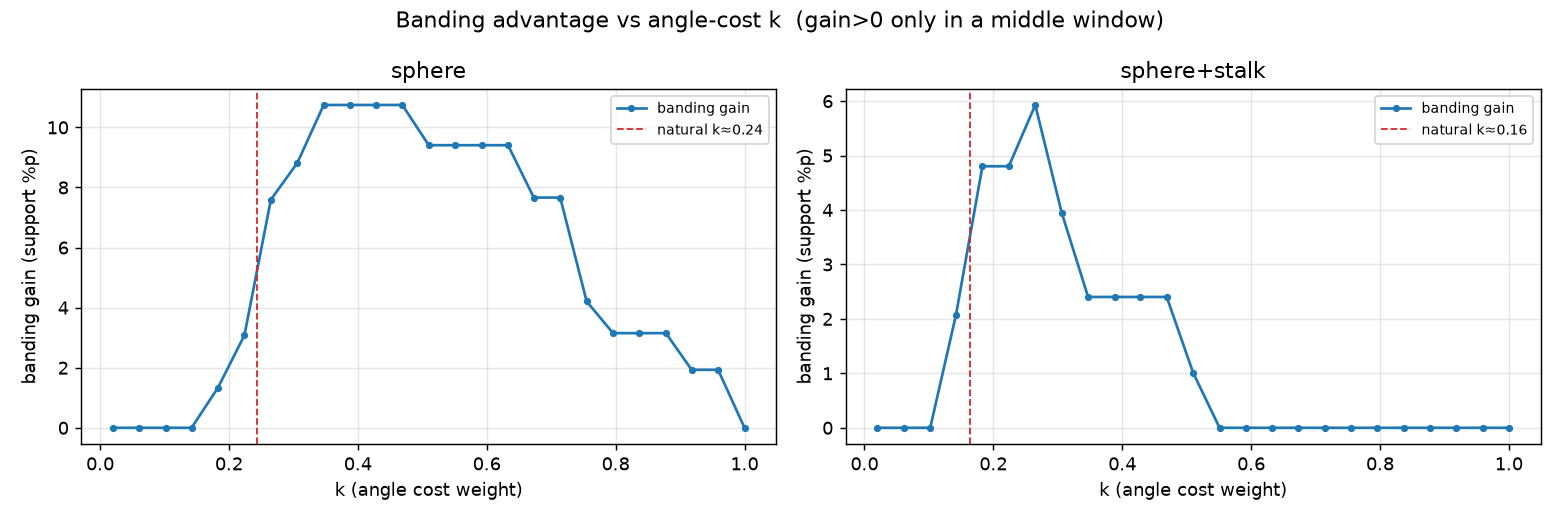
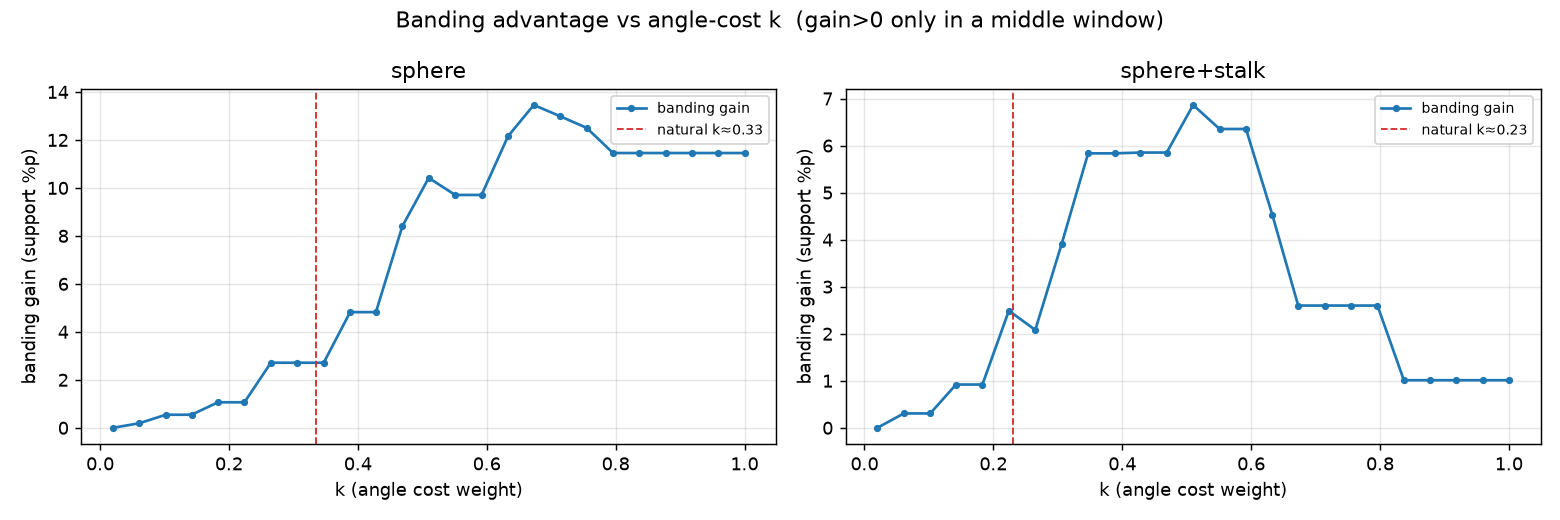
판정 기준 통일: Stage 3 계열(J/k/복잡도 비교)을 해석식으로 이식
리포에 오버행 판정 기준이 2개 공존했다 — 변환공간 근사(sweep/metrics:
selector·varangle·regions·compare_complexity·analyze_k가 사용)와
해석식(analytic: clusters·bandplan·compare_ceiling·conical_slice가 사용).
두 기준은 0°에서만 일치하고 각도가 클수록 벌어진다(구 44°에서 5.8% vs
0.0%). 리포 스스로 docs/warped_threshold_finding.md 에서 "변환공간 45°
판정은 물리와 다르다"고 밝혔으므로 간판 숫자를 전부 해석식으로 통일.

변경: analytic.face_support_and_staircase 추가(α=0에서 기존 정의와 정확
일치), selector/varangle/regions/analyze_k 를 analytic 으로 교체,
sweep/metrics 는 "⚠ 레거시" 표시(비교·재현용 유지), 결과물 재생성.

대표 수치 변화 (구 icosphere subdiv4, 임계 45°, k=0.2):
  cone_selector 선택   : outward 36°, 서포트 7.2%, J 0.32
                       → outward 32°, 서포트 1.3%, J 7.06
  compare_complexity   : 균일 5.3% / 밴드2 4.0 / 밴드3 4.0 / 세밀 4.0
                       → 균일 1.3% / 밴드2 0.5 / 밴드3 0.2 / 세밀 0.0
  analyze_k (sphere)   : 자연 k 0.24, 피크 +10.7%p@0.35
                       → 자연 k 0.33, 피크 +13.5%p@0.67
  analyze_k (s+stalk)  : 자연 k 0.16, 피크 +5.9%p@0.27
                       → 자연 k 0.23, 피크 +6.9%p@0.51
  compare_ceiling      : 변화 없음 (이미 해석식)
해석식 검증치: 0°=14.71 / 20°=4.68 / 36°=0.54 / 44°=0.00 (기대와 일치).
새 곡선에서 32°가 J 최대임을 확인.

Claude-Session: https://claude.ai/code/session_01PhcSjij4HCWYMgSyMokAq5

diff --git a/conical/regions.py b/conical/regions.py
@@ -17,9 +17,7 @@ regions.py — 부위별(영역별) 원뿔 각도 결정 (Stage 4, 확장).
 """
 
 import numpy as np
-import trimesh
 
-from .transform import transform_cone
 from .overhang import analyze_overhangs
 from .selector import evaluate_J
 from .config import THRESHOLD_DEG, MAX_ANGLE_DEG, ANGLE_STEP
@@ -57,14 +55,13 @@ def assign_regions_by_overhang(mesh, n_regions, threshold_deg=THRESHOLD_DEG):
 # 2) 서포트 판정 도우미: 변환 후에도 서포트가 필요한 면들
 # ─────────────────────────────────────────────────────────────
 def still_needs_support(mesh, cone_angle_deg, cone_type, threshold_deg=THRESHOLD_DEG):
-    """변환 후에도 서포트가 필요한 면들의 boolean 배열(전체 면 기준)을 돌려준다."""
-    if cone_angle_deg == 0:
-        tmesh = mesh
-    else:
-        v = transform_cone(mesh.vertices, cone_angle_deg, cone_type)
-        tmesh = trimesh.Trimesh(vertices=v, faces=mesh.faces, process=False)
-    _, need = analyze_overhangs(tmesh, threshold_deg)
-    return need
+    """이 각도에서도 서포트가 필요한 면들의 boolean 배열(전체 면 기준).
+
+    판정 기준 통일(2026-07 리뷰): 변환공간 근사(메시 재변환+법선 재계산) 대신
+    해석식(실공간 국소 레이어 각)을 쓴다. α=0 에서 두 정의는 일치.
+    """
+    from . import analytic
+    return analytic.needs_support(mesh, cone_angle_deg, cone_type, threshold_deg)
 
 
 # ─────────────────────────────────────────────────────────────

diff --git a/conical/analytic.py b/conical/analytic.py
@@ -60,6 +60,20 @@ def support_fraction(mesh, angle_deg, direction, threshold_deg=THRESHOLD_DEG):
     return areas[need].sum() / areas.sum() * 100.0
 
 
+def face_support_and_staircase(mesh, angle_deg, direction,
+                               threshold_deg=THRESHOLD_DEG):
+    """해석식 버전 (metrics.face_support_and_staircase 의 대체):
+      needs_support = g < κ,  staircase = max(0, −g).
+
+    g = n_z·cosα + d·n_r·sinα 는 변환공간 n_z' 의 실공간 대응물이므로
+    α=0 에서 기존 metrics 정의와 정확히 일치하고, α>0 에서는 왜곡 없는
+    물리 기준이 된다 (docs/warped_threshold_finding.md — 판정 기준 통일).
+    """
+    g = overhang_score(mesh, angle_deg, direction)
+    kappa = -np.sin(np.radians(threshold_deg))
+    return g < kappa, np.maximum(0.0, -g)
+
+
 def critical_angle(mesh, direction, threshold_deg=THRESHOLD_DEG,
                    angle_max=MAX_ANGLE_DEG):
     """면마다 '자기지지가 되는 최소 원뿔각 θ*'를 닫힌형으로 계산.

diff --git a/conical/varangle.py b/conical/varangle.py
@@ -20,7 +20,9 @@ varangle.py — 높이 구간별 '변수각 원뿔' 전략 (부위별 각도의 
 import numpy as np
 
 from .config import THRESHOLD_DEG, MAX_ANGLE_DEG, ANGLE_STEP
-from .metrics import face_support_and_staircase
+# 판정 기준 통일(2026-07 리뷰): metrics(변환공간 근사) → analytic(해석식).
+# α=0 에서 두 정의는 일치, α>0 에서 해석식이 물리 기준이다.
+from .analytic import face_support_and_staircase
 
 
 # ─────────────────────────────────────────────────────────────

diff --git a/conical/metrics.py b/conical/metrics.py
@@ -1,5 +1,8 @@
 """
-metrics.py — 원뿔 각도 성능을 재는 '지표' 모음. 한 곳에서 재사용.
+metrics.py — 원뿔 각도 성능을 재는 '지표' 모음.
+
+⚠ 레거시: 변환공간 근사. 판정 기준은 analytic 으로 통일됨(비교·재현용으로만 유지).
+   analytic.face_support_and_staircase 가 같은 시그니처의 물리 기준 대체다.
 
 세 가지 관점 (발표의 '복잡도 vs 성능' 표에 그대로 들어감):
   1) 서포트   : 변환 후에도 서포트가 필요한 면 (적을수록 좋음) → 재료·시간(속도)과 연결

diff --git a/conical/sweep.py b/conical/sweep.py
@@ -1,6 +1,9 @@
 """
 sweep.py — Stage 2: 각도 vs 남은 서포트 곡선.
 
+⚠ 레거시: 변환공간 근사. 판정 기준은 analytic 으로 통일됨(비교·재현용으로만 유지).
+   변환공간의 45° 판정은 α>0 에서 물리와 다르다 — docs/warped_threshold_finding.md.
+
 아이디어(재혁): 원뿔 각도를 이리저리 바꿔보면서, 오버행(서포트)이 가장 잘
 없어지는 각도를 찾는다. 프린트할 필요 없이, 각 각도마다 '변환된 모델'에
 Stage 1 오버행 분석(overhang.py)을 다시 돌리기만 하면 된다.

diff --git a/conical/selector.py b/conical/selector.py
@@ -23,7 +23,9 @@ k를 어떻게 정하나:
 """
 
 from .config import MAX_ANGLE_DEG, ANGLE_STEP, THRESHOLD_DEG
-from .sweep import support_fraction
+# 판정 기준 통일(2026-07 리뷰): 변환공간 근사(sweep) 대신 해석식(실공간 국소
+# 레이어 각)을 쓴다. 시그니처 동일. 근거: docs/warped_threshold_finding.md
+from .analytic import support_fraction
 
 
 # ─────────────────────────────────────────────────────────────

diff --git a/analyze_k.py b/analyze_k.py
@@ -24,7 +24,8 @@ matplotlib.use("Agg")
 import matplotlib.pyplot as plt
 
 from conical.varangle import select_uniform, select_banded
-from conical.metrics import face_support_and_staircase
+# 판정 기준 통일(2026-07 리뷰): metrics → analytic (해석식)
+from conical.analytic import face_support_and_staircase
 from conical.meshio import center_on_axis
 from conical.config import THRESHOLD_DEG, MAX_ANGLE_DEG, ANGLE_STEP
 
